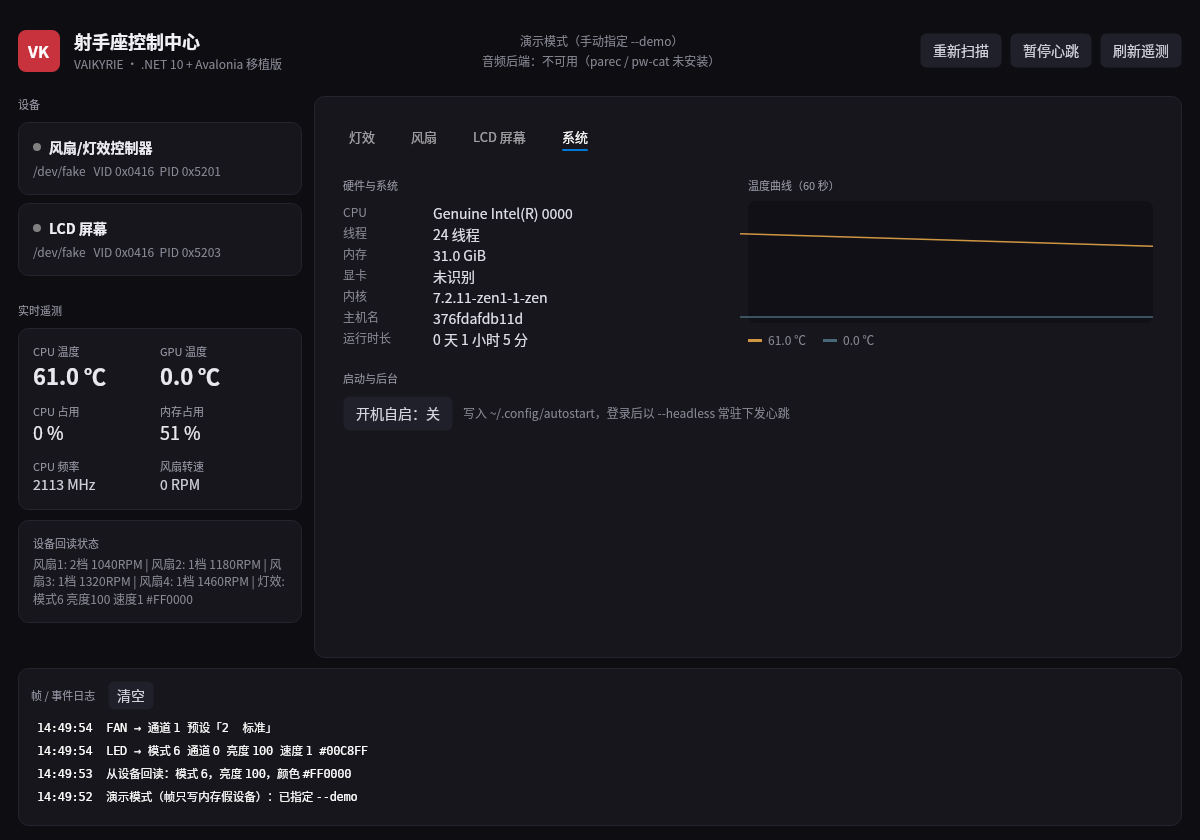
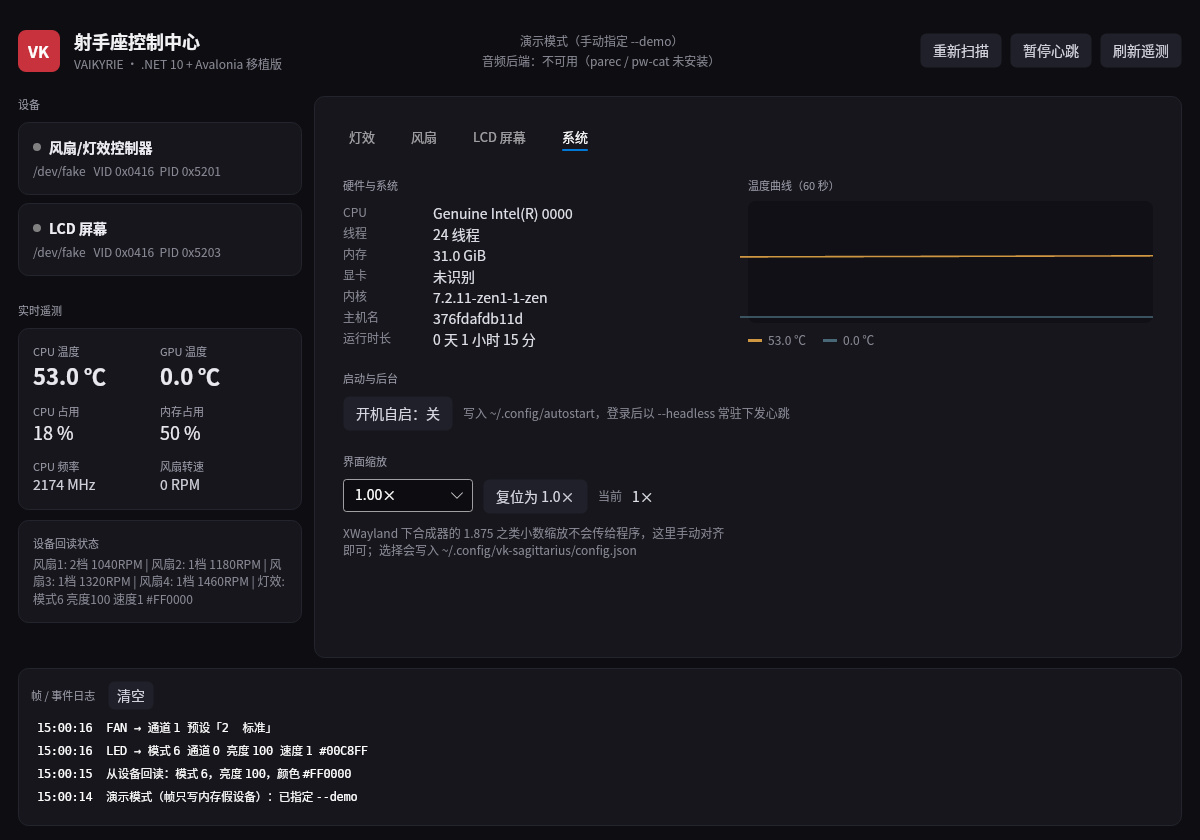
支持界面缩放：--scale / VKSAG_SCALE / 配置文件 / 系统页选择，LayoutTransform 矢量缩放；窗口与最小尺寸随缩放

diff --git a/dotnet/src/VkSagittarius.App/ScaleConfig.cs b/dotnet/src/VkSagittarius.App/ScaleConfig.cs
@@ -1,0 +1,123 @@
+using System;
+using System.Diagnostics;
+using System.Globalization;
+using System.IO;
+using System.Text.Json;
+
+namespace VkSagittarius.App;
+
+/// <summary>
+/// 界面缩放的三级来源：环境变量 VKSAG_SCALE（CLI --scale 也写这里）→ 配置文件 →
+/// 自动探测（Xft.dpi）。写回 ~/.config/vk-sagittarius/config.json。
+///
+/// 背景：Hyprland 开着 xwayland:force_zero_scaling 时，fractional scale（例如 1.875）
+/// 不会传给 X11 程序，Avalonia 按 1.0 绘制，于是 4K 屏上界面偏小、还会被合成器放大发虚。
+/// </summary>
+public static class ScaleConfig
+{
+    private const double Min = 0.75, Max = 3.0;
+
+    private static string FilePath => Path.Combine(
+        Environment.GetFolderPath(Environment.SpecialFolder.UserProfile),
+        ".config", "vk-sagittarius", "config.json");
+
+    private sealed class Model
+    {
+        public double Scale { get; set; }
+    }
+
+    public static double Resolve()
+    {
+        var fromEnv = Parse(Environment.GetEnvironmentVariable("VKSAG_SCALE"));
+        if (fromEnv is { } e) return e;
+
+        var fromFile = Parse(ReadSaved());
+        if (fromFile is { } f) return f;
+
+        return AutoDetect();
+    }
+
+    public static void Save(double scale)
+    {
+        try
+        {
+            Directory.CreateDirectory(Path.GetDirectoryName(FilePath)!);
+            File.WriteAllText(FilePath,
+                JsonSerializer.Serialize(new Model { Scale = scale }, new JsonSerializerOptions { WriteIndented = true }));
+        }
+        catch (Exception)
+        {
+            // 配置写不进去不该影响使用
+        }
+    }
+
+    private static string? ReadSaved()
+    {
+        try
+        {
+            if (!File.Exists(FilePath)) return null;
+            return JsonSerializer.Deserialize<Model>(File.ReadAllText(FilePath))?.Scale
+                .ToString(CultureInfo.InvariantCulture);
+        }
+        catch (Exception)
+        {
+            return null;
+        }
+    }
+
+    private static double? Parse(string? raw)
+    {
+        if (string.IsNullOrWhiteSpace(raw)) return null;
+        if (!double.TryParse(raw, NumberStyles.Float, CultureInfo.InvariantCulture, out var v)) return null;
+        if (v < Min || v > Max) return null;
+        return Math.Round(v, 3);
+    }
+
+    /// <summary>Xft.dpi / 96；读不到就 1.0（大多数 X11 桌面把 dpi 设成 96×缩放）。</summary>
+    public static double AutoDetect()
+    {
+        var dpi = ReadXftDpi() ?? ParseEnvDpi();
+        if (dpi is { } d && d > 0)
+        {
+            var scale = Math.Round(d / 96.0, 3);
+            if (scale is >= Min and <= Max) return scale;
+        }
+        return 1.0;
+    }
+
+    private static double? ParseEnvDpi()
+    {
+        var raw = Environment.GetEnvironmentVariable("GDK_DPI_SCALE");
+        return double.TryParse(raw, NumberStyles.Float, CultureInfo.InvariantCulture, out var v) && v > 0 ? 96 * v : null;
+    }
+
+    private static double? ReadXftDpi()
+    {
+        try
+        {
+            var psi = new ProcessStartInfo("xrdb", "-query")
+            {
+                RedirectStandardOutput = true,
+                RedirectStandardError = true,
+                UseShellExecute = false,
+            };
+            using var p = Process.Start(psi);
+            if (p is null) return null;
+            var output = p.StandardOutput.ReadToEnd();
+            if (!p.WaitForExit(600)) { try { p.Kill(); } catch (Exception) { } return null; }
+            foreach (var line in output.Split('\n'))
+            {
+                if (!line.Contains("Xft.dpi:", StringComparison.OrdinalIgnoreCase)) continue;
+                var idx = line.IndexOf(':');
+                if (idx < 0) continue;
+                if (double.TryParse(line[(idx + 1)..].Trim(), NumberStyles.Float, CultureInfo.InvariantCulture, out var dpi))
+                    return dpi;
+            }
+        }
+        catch (Exception)
+        {
+            // 没有 xrdb 或没有 DISPLAY：忽略
+        }
+        return null;
+    }
+}

diff --git a/dotnet/src/VkSagittarius.App/ViewModels/MainViewModel.cs b/dotnet/src/VkSagittarius.App/ViewModels/MainViewModel.cs
@@ -63,6 +63,15 @@ public sealed class MainViewModel : ObservableObject
         RescanCommand = new RelayCommand(Rescan);
         ToggleAutostartCommand = new RelayCommand(ToggleAutostart);
 
+        _selectedScaleOption = ScaleOptions.FirstOrDefault(o => Math.Abs(o.Id / 1000.0 - UiScale) < 0.001)
+                               ?? new Option((int)Math.Round(UiScale * 1000), $"{UiScale:0.###}×");
+        if (!ScaleOptions.Contains(_selectedScaleOption)) ScaleOptions.Add(_selectedScaleOption);
+        ScaleResetCommand = new RelayCommand(() =>
+        {
+            var opt = ScaleOptions.FirstOrDefault(o => o.Id == 1000);
+            if (opt is not null) SelectedScaleOption = opt;
+        });
+
         _uiTimer = new DispatcherTimer { Interval = TimeSpan.FromSeconds(1) };
         _uiTimer.Tick += OnUiTick;
 
@@ -547,6 +556,57 @@ public sealed class MainViewModel : ObservableObject
     }
 
     public string AutostartText => AutostartEnabled ? "开机自启：开" : "开机自启：关";
+
+    // ---------------------------------------------------------- 界面缩放
+
+    /// <summary>
+    /// 界面缩放。XWayland + Hyprland 的 fractional scale（如 1.875）不会传给 X11 程序，
+    /// Avalonia 默认按 1.0 画，于是 4K 屏上字小、再被合成器放大发虚。
+    /// 这里显式接管：CLI --scale / 环境变量 VKSAG_SCALE / 配置文件 / 界面选择，
+    /// 用 LayoutTransform 缩放整棵可视树（矢量重绘，不是位图放大）。
+    /// </summary>
+    private double _uiScale = ScaleConfig.Resolve();
+
+    public double UiScale
+    {
+        get => _uiScale;
+        private set
+        {
+            if (!Set(ref _uiScale, value)) return;
+            OnPropertyChanged(nameof(WindowWidth));
+            OnPropertyChanged(nameof(WindowHeight));
+            OnPropertyChanged(nameof(MinWindowWidth));
+            OnPropertyChanged(nameof(MinWindowHeight));
+            OnPropertyChanged(nameof(UiScaleText));
+        }
+    }
+
+    public double WindowWidth => Math.Round(1200 * UiScale);
+    public double WindowHeight => Math.Round(840 * UiScale);
+    public double MinWindowWidth => Math.Round(900 * UiScale);
+    public double MinWindowHeight => Math.Round(600 * UiScale);
+    public string UiScaleText => $"{UiScale:0.###}×";
+
+    public List<Option> ScaleOptions { get; } =
+    [
+        new Option(1000, "1.00×"), new Option(1250, "1.25×"), new Option(1500, "1.50×"),
+        new Option(1750, "1.75×"), new Option(1875, "1.875×"), new Option(2000, "2.00×"),
+    ];
+
+    private Option _selectedScaleOption = null!;
+    public Option SelectedScaleOption
+    {
+        get => _selectedScaleOption;
+        set
+        {
+            if (!Set(ref _selectedScaleOption, value) || value is null) return;
+            UiScale = value.Id / 1000.0;
+            ScaleConfig.Save(UiScale);
+            Log($"界面缩放 → {UiScale:0.###}×（已保存到 ~/.config/vk-sagittarius/config.json）");
+        }
+    }
+
+    public RelayCommand ScaleResetCommand { get; }
 
     public ObservableCollection<string> FrameLog { get; } = new();
 

diff --git a/dotnet/src/VkSagittarius.App/Program.cs b/dotnet/src/VkSagittarius.App/Program.cs
@@ -17,6 +17,10 @@ internal static class Program
         if (args.Contains("--headless"))
             return HeadlessRun(ArgInt(args, "--seconds"), ArgStr(args, "--path"));
 
+        // --scale 优先级最高：写进环境变量后由 ScaleConfig 统一读取
+        if (ArgStr(args, "--scale") is { } scaleArg)
+            Environment.SetEnvironmentVariable("VKSAG_SCALE", scaleArg);
+
         return BuildAvaloniaApp().StartWithClassicDesktopLifetime(args);
     }
 
